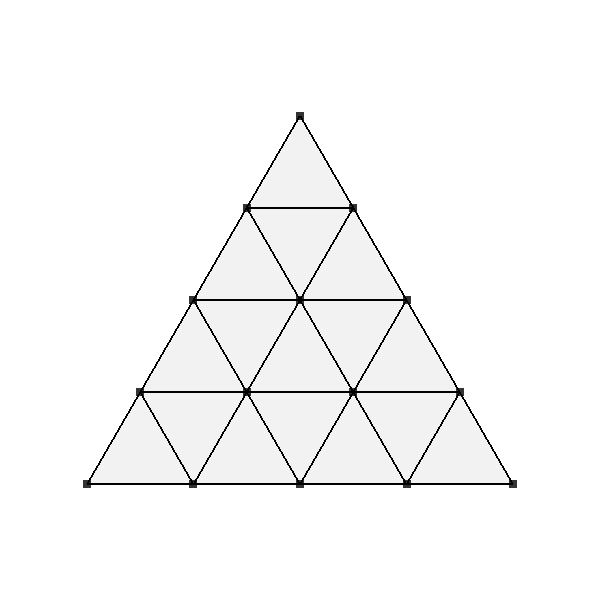
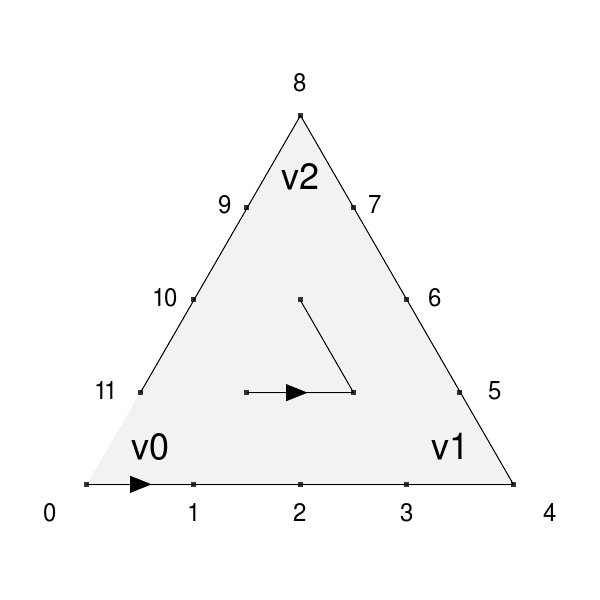
Additions and improvements to figures for Bfr Overview docs:     - added diagrams for SurfaceFactory and Surface classes     - added annotation to several other figures

diff --git a/documentation/bfr_overview.rst b/documentation/bfr_overview.rst
@@ -129,16 +129,8 @@ SurfaceFactory does no work until a Surface is requested for a particular
 face -- at which point the factory inspects the mesh topology around that
 face to assemble the Surface.
 
-+---------------------------------------------------------------------+
-| .. image::  images/construction.png                                 |
-|    :align:  center                                                  |
-|    :width:  30%                                                     |
-|    :target: images/construction.png                                 |
-|                                                                     |
-| (Place holder for architectural figure:  SurfaceFactory and its     |
-| subclass for a mesh and their interaction with client mesh topology |
-| and data.)                                                          |
-+---------------------------------------------------------------------+
+.. image::  images/bfr_eval_surfacefactory.png
+   :align:  center
 
 SurfaceFactory is actually a base class that is inherited to provide a
 consistent construction interface for Surfaces. Subclasses are derived
@@ -214,16 +206,8 @@ array, while control vertices are indexed from mesh buffers) but also
 because these points do ultimately represent the control points of
 the one or more patches that comprise the Surface:
 
-+---------------------------------------------------------------------+
-| .. image::  images/construction.png                                 |
-|    :align:  center                                                  |
-|    :width:  30%                                                     |
-|    :target: images/construction.png                                 |
-|                                                                     |
-| (Place holder for architectural figure:  illustrate Surface access  |
-| to mesh data, preparation of patch points and their use in          |
-| evaluation.)                                                        |
-+---------------------------------------------------------------------+
+.. image::  images/bfr_eval_surface.png
+   :align:  center
 
 Once the patch points for a Surface are prepared, they can be passed to
 the main evaluation methods with the desired parameteric coordinates.
@@ -594,7 +578,8 @@ offset of 1 is warranted when comparing the two.
 |    :width:  100%                               |    :width:  100%                               |
 |    :target: images/bfr_tess_diff_edges_osd.png |    :target: images/bfr_tess_diff_edges_gpu.png |
 +------------------------------------------------+------------------------------------------------+
-| Outer rates of [1, 3, 5, 7] applied to a quad with *Bfr* (left) and GPU tessellation (right).   |
+| Outer edge tessellation rates of {1,3,5,7} applied to a quad with *Bfr* (left) and GPU          |
+| tessellation (right).                                                                           |
 +-------------------------------------------------------------------------------------------------+
 
 For the uniform tessellation of triangles, its well known that the needs of
